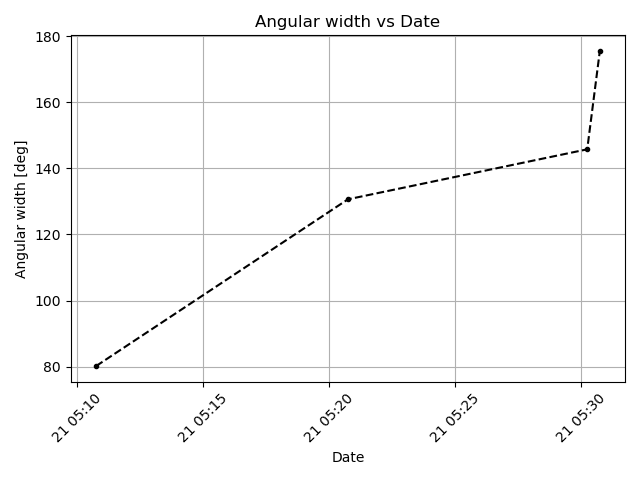
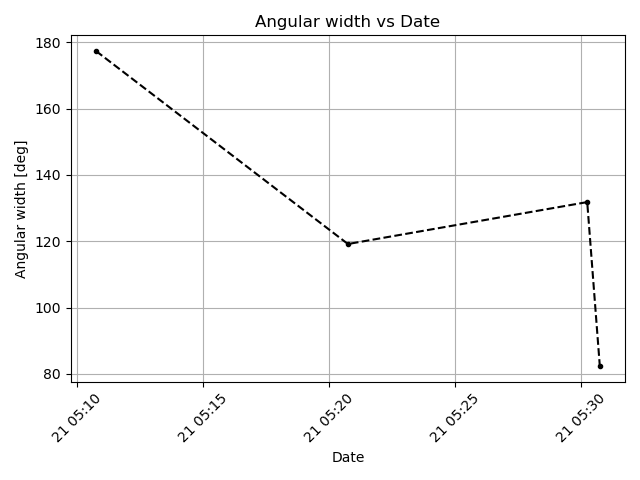
Tested outputs on some event ids

diff --git a/select_points_img_points_run.py b/select_points_img_points_run.py
@@ -8,7 +8,7 @@ import numpy as np
 repo_path = os.getcwd() 
 data_path = '/gehme/data/solo/fsi'
 master_list = repo_path + '/FSI_CMEbubbles_Onlytraceable.csv'
-id_of_events_to_process = [1]
+id_of_events_to_process = [22]
 odir = repo_path + '/output'
 overwrite = True # if True, the output file will be overwritten if it already exists
 color_scl = 3 # number of sigmas to control image color scale range

diff --git a/analyze_points.py b/analyze_points.py
@@ -10,7 +10,7 @@ mpl.use('Agg')
 
 #CONSTANTS
 repo_path = os.getcwd()
-points_list = repo_path + '/output/selected_points_id01.csv'
+points_list = repo_path + '/output/selected_points_id02.csv'
 output_dir = repo_path + '/output/plots'
 #####
 print('Computing derived quantities...')
